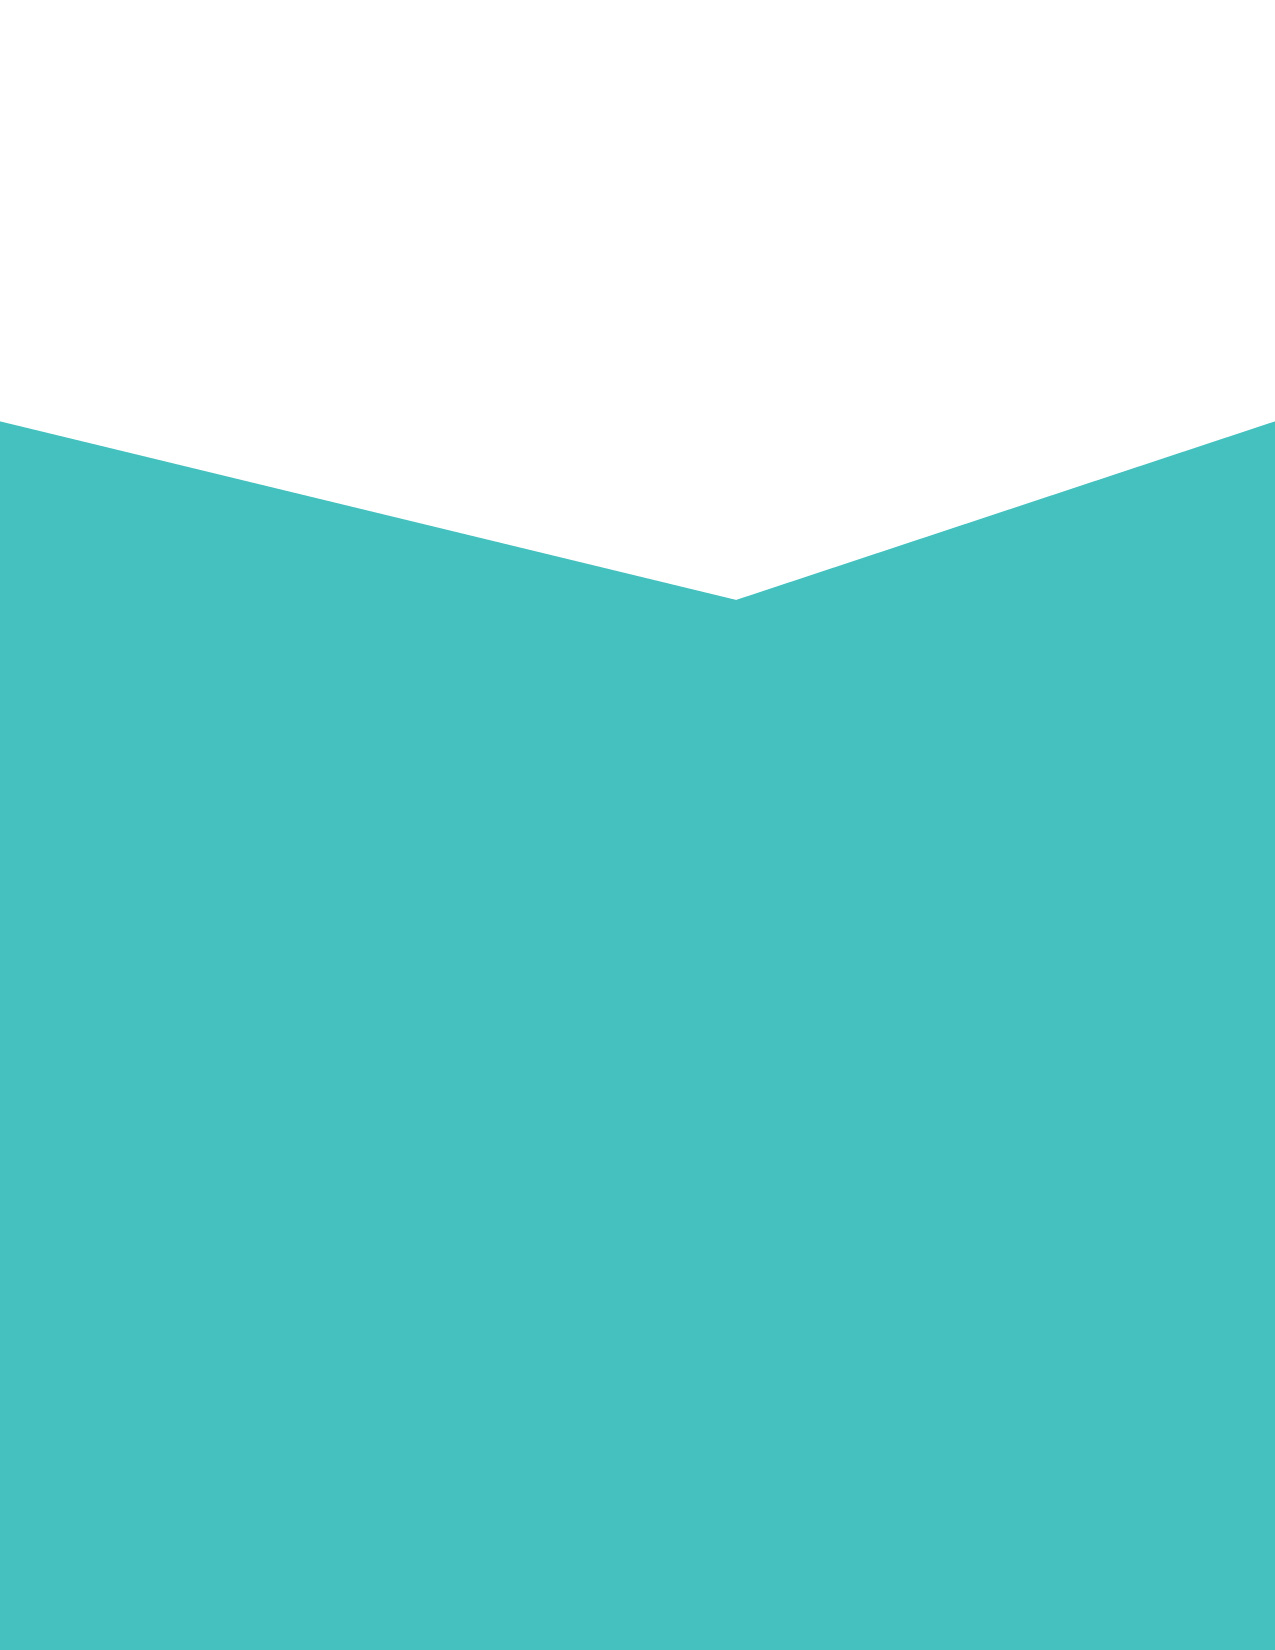
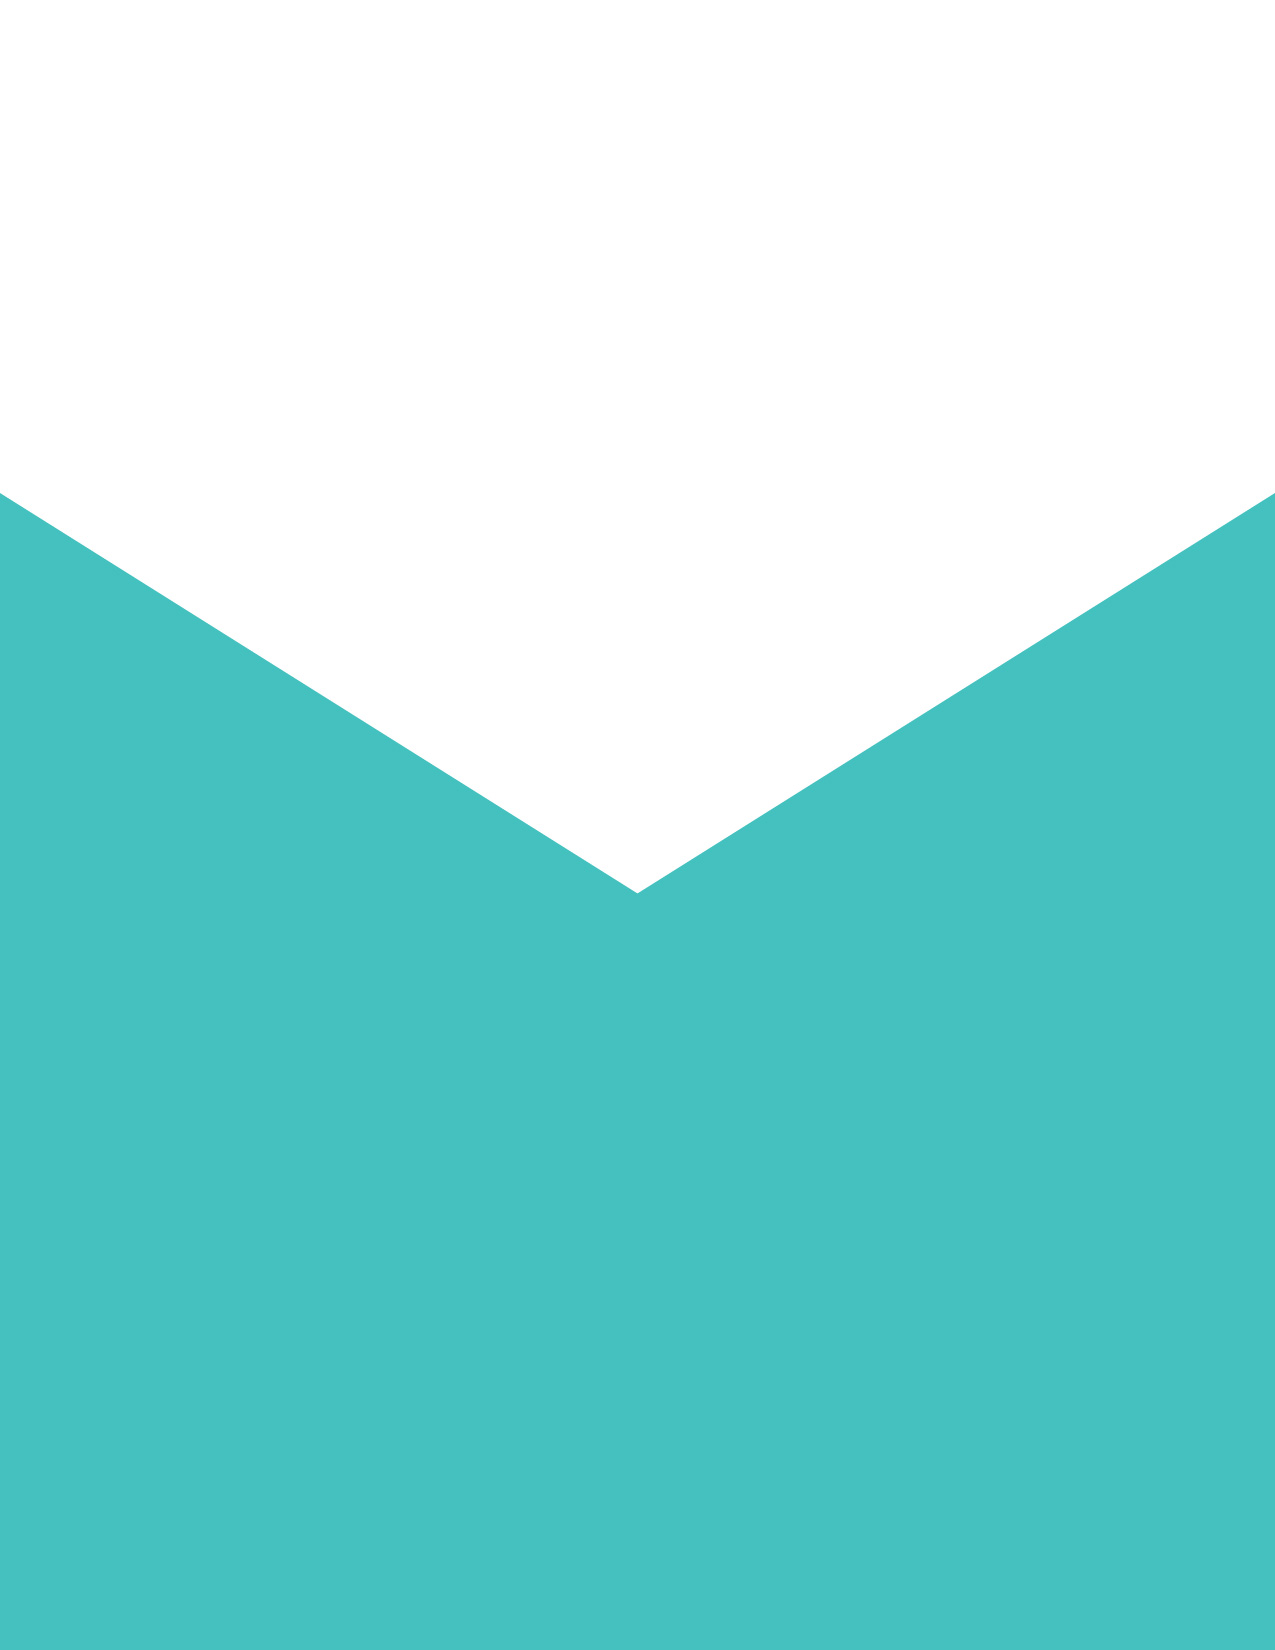
changes contact background image

Changed region(s): [[0.0, 0.2473, 1.0, 0.5564]]

diff --git a/src/styles.scss b/src/styles.scss
@@ -32,7 +32,7 @@ $libackgroundcolor: #d3d3d3;
 }
 
 .contactBgImage {
-  background-image: url("../public/images/contactBackgroundImage.jpg");
+  background-image: url("../public/images/contactBackgroundImage-01.jpg");
   background-size: cover;
   height: 100vh;
 }
